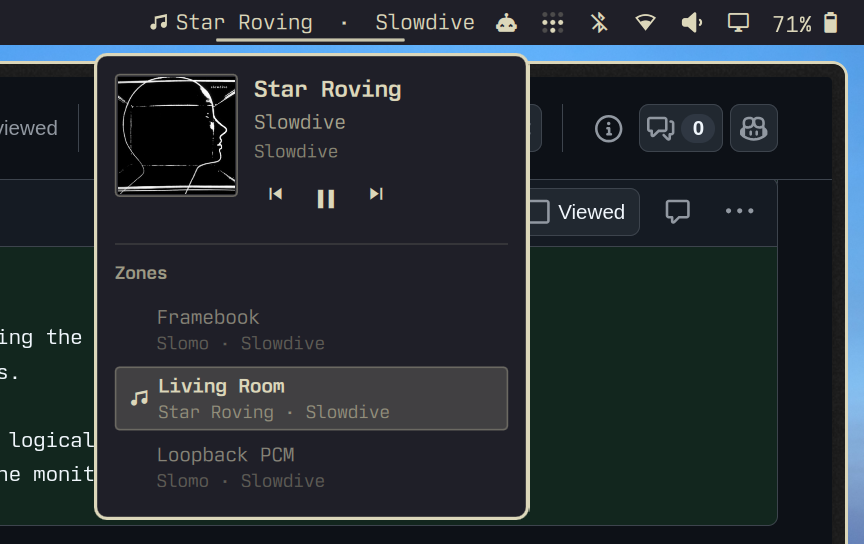
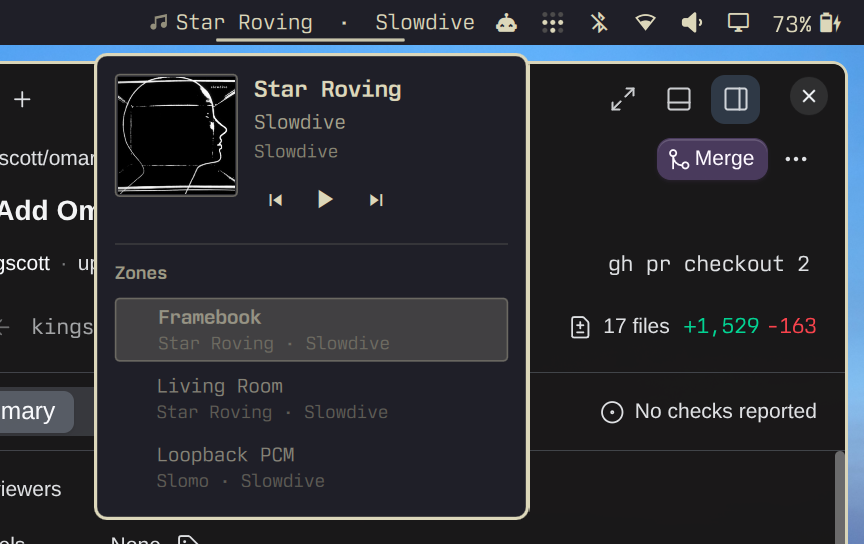
fix: Center the playback buttons in the card
The play button uses a larger icon, and the row aligned the buttons by their
tops, so previous and next sat higher than play.

diff --git a/plugin/Panel.qml b/plugin/Panel.qml
@@ -250,6 +250,7 @@ BarWidget {
             LayoutMirroring.childrenInherit: true
 
             Button {
+              anchors.verticalCenter: parent.verticalCenter
               iconText: ""
               foreground: root.bar.foreground
               enabled: !!root.zone && root.zone.canPrevious
@@ -258,6 +259,7 @@ BarWidget {
             }
 
             Button {
+              anchors.verticalCenter: parent.verticalCenter
               iconText: root.isPlaying ? "" : ""
               foreground: root.bar.foreground
               iconSize: Style.font.iconLarge
@@ -267,6 +269,7 @@ BarWidget {
             }
 
             Button {
+              anchors.verticalCenter: parent.verticalCenter
               iconText: ""
               foreground: root.bar.foreground
               enabled: !!root.zone && root.zone.canNext
